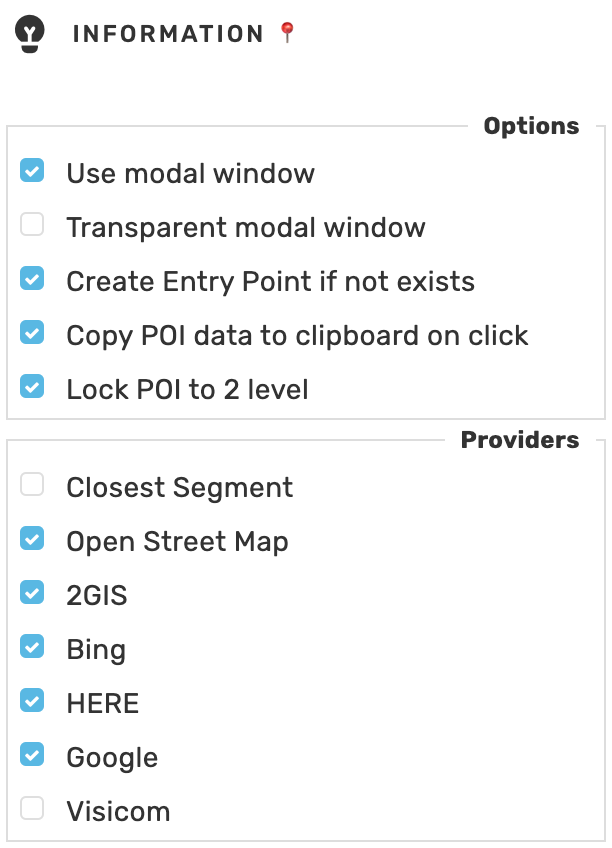
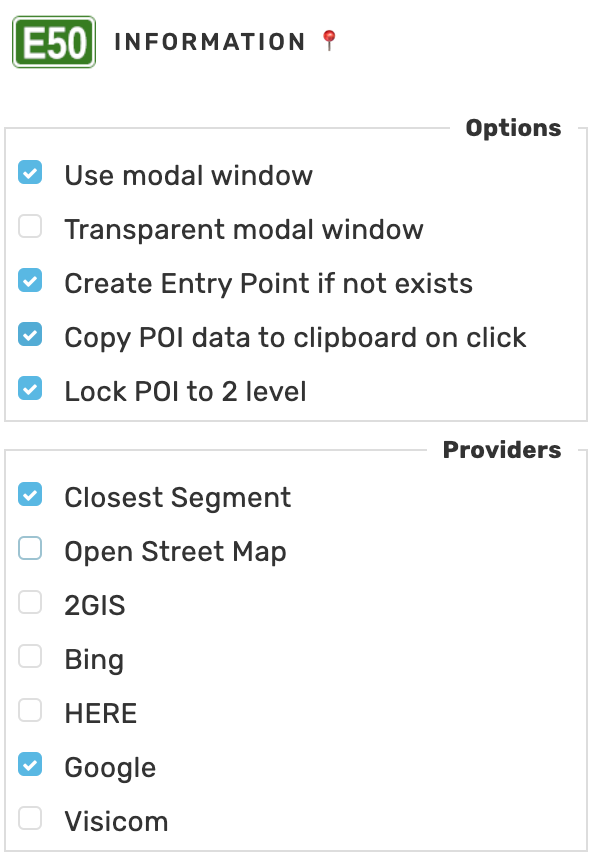
Updated WMEUI library

diff --git a/WME-E50.user.js b/WME-E50.user.js
@@ -9,7 +9,7 @@
 // @match        https://*.waze.com/editor*
 // @match        https://*.waze.com/*/editor*
 // @exclude      https://*.waze.com/user/editor*
[2 lines of base64/hex data omitted]
 // @connect      api.here.com
 // @connect      api.visicom.ua
 // @connect      nominatim.openstreetmap.org
@@ -21,8 +21,8 @@
 // @require      https://greasyfork.org/scripts/389765-common-utils/code/CommonUtils.js?version=1090053
 // @require      https://greasyfork.org/scripts/450160-wme-bootstrap/code/WME-Bootstrap.js?version=1135567
 // @require      https://greasyfork.org/scripts/452563-wme/code/WME.js?version=1101598
-// @require      https://greasyfork.org/scripts/450221-wme-base/code/WME-Base.js?version=1129908
-// @require      https://greasyfork.org/scripts/450320-wme-ui/code/WME-UI.js?version=1137009
+// @require      https://greasyfork.org/scripts/450221-wme-base/code/WME-Base.js?version=1137043
+// @require      https://greasyfork.org/scripts/450320-wme-ui/code/WME-UI.js?version=1137289
 // @require      https://greasyfork.org/scripts/38421-wme-utils-navigationpoint/code/WME%20Utils%20-%20NavigationPoint.js?version=251067
 // ==/UserScript==
 
@@ -236,7 +236,9 @@
 
       this.tab = this.helper.createTab(
         I18n.t(name).title,
-        { icon: 'suggestion-fill' }
+        {
+          image: GM_info.script.icon
+        }
       )
 
       // Setup options
@@ -296,7 +298,7 @@
      * @return {Null}
      */
     onNone (event) {
-      document.getElementById('panel-container').innerHTML = ''
+      document.getElementById('panel-container').innerText = ''
     }
 
     /**
@@ -334,22 +336,20 @@
 
       let providers = []
 
-      console.groupCollapsed(
-        '%c' + NAME + ': 📍 %c' + selected.x + ' ' + selected.y,
-        'color: #0DAD8D; font-weight: bold',
-        'color: dimgray; font-weight: normal'
-      )
-
       let country = W.model.getTopCountry().getID() // or 232 is Ukraine
 
       let settings = LOCALE[country]
+
+      this.group(
+        '📍' + selected.x + ' ' + selected.y
+      )
 
       if (this.settings.get('providers', 'magic')) {
         let Magic = new MagicProvider(container, settings)
         let providerPromise = Magic
           .search(selected.x, selected.y)
           .then(() => Magic.render())
-          .catch(() => console.log(':('))
+          .catch(() => this.log(':('))
         providers.push(providerPromise)
       }
 
@@ -358,7 +358,7 @@
         let providerPromise = Osm
           .search(selected.x, selected.y)
           .then(() => Osm.render())
-          .catch(() => console.log(':('))
+          .catch(() => this.log(':('))
         providers.push(providerPromise)
       }
 
@@ -367,7 +367,7 @@
         let providerPromise = Gis
           .search(selected.x, selected.y)
           .then(() => Gis.render())
-          .catch(() => console.log(':('))
+          .catch(() => this.log(':('))
         providers.push(providerPromise)
       }
 
@@ -376,7 +376,7 @@
         let providerPromise = Visicom
           .search(selected.x, selected.y)
           .then(() => Visicom.render())
-          .catch(() => console.log(':('))
+          .catch(() => this.log(':('))
         providers.push(providerPromise)
       }
 
@@ -385,7 +385,7 @@
         let providerPromise = Here
           .search(selected.x, selected.y)
           .then(() => Here.render())
-          .catch(() => console.log(':('))
+          .catch(() => this.log(':('))
         providers.push(providerPromise)
       }
 
@@ -394,7 +394,7 @@
         let providerPromise = Bing
           .search(selected.x, selected.y)
           .then(() => Bing.render())
-          .catch(() => console.log(':('))
+          .catch(() => this.log(':('))
         providers.push(providerPromise)
       }
 
@@ -403,17 +403,17 @@
         let providerPromise = Google
           .search(selected.x, selected.y)
           .then(() => Google.render())
-          .catch(() => console.log(':('))
+          .catch(() => this.log(':('))
         providers.push(providerPromise)
       }
 
-      Promise.all(providers).then(() => console.groupEnd())
+      Promise.all(providers).then(() => this.groupEnd())
 
       if (this.settings.get('options', 'modal')) {
         if (this.settings.get('options', 'transparent')) {
           parent.style.opacity = 0.6
-          parent.onmouseover = () => (parent.style.opacity = 1)
-          parent.onmouseout = () => (parent.style.opacity = 0.6)
+          parent.onmouseover = () => (parent.style.opacity = '1')
+          parent.onmouseout = () => (parent.style.opacity = '0.6')
         }
         this.modal.container().append(parent)
       } else {
@@ -586,7 +586,7 @@
       }
 
       let legend = document.createElement('legend')
-      legend.innerHTML = this.uid + ' [' + this.response.length + ']'
+      legend.innerText = this.uid + ' [' + this.response.length + ']'
       legend.onclick = function () {
         $(this).next().toggle()
         return false
@@ -610,7 +610,7 @@
       a.dataset.street = item.street
       a.dataset.number = item.number
       a.dataset.name = item.name
-      a.innerHTML = item.title
+      a.innerText = item.title
       a.title = item.raw
       a.className = NAME + '-link'
       if (!item.city || !item.street || !item.number) {
@@ -682,7 +682,7 @@
         key: this.key,
       }
 
-      let response = await this.makeRequest(url, data).catch(e => console.log(this.uid, 'return error', e))
+      let response = await this.makeRequest(url, data).catch(e => console.error(this.uid, 'return error', e))
 
       if (!response || !response.features || !response.features.length) {
         return []
@@ -731,7 +731,7 @@
         format: 'json',
       }
 
-      let response = await this.makeRequest(url, data).catch(e => console.log(this.uid, 'return error', e))
+      let response = await this.makeRequest(url, data).catch(e => console.error(this.uid, 'return error', e))
 
       if (!response || !response.address || !response.address.house_number) {
         return []
@@ -784,7 +784,7 @@
         key: this.key,
       }
 
-      let response = await this.makeRequest(url, data).catch(e => console.log(this.uid, 'return error', e))
+      let response = await this.makeRequest(url, data).catch(e => console.error(this.uid, 'return error', e))
 
       if (!response || !response.result || !response.result.items.length) {
         return []
@@ -850,7 +850,7 @@
         addressattributes: 'str,hnr'
       }
 
-      let response = await this.makeRequest(url, data).catch(e => console.log(this.uid, 'return error', e))
+      let response = await this.makeRequest(url, data).catch(e => console.error(this.uid, 'return error', e))
 
       if (!response
         || !response.Response
@@ -898,7 +898,7 @@
         key: this.key,
       }
 
-      let response = await this.makeRequest(url, data).catch(e => console.log(this.uid, 'return error', e))
+      let response = await this.makeRequest(url, data).catch(e => console.error(this.uid, 'return error', e))
 
       if (!response || !response.resourceSets || !response.resourceSets[0]) {
         return []
@@ -933,7 +933,7 @@
     }
 
     async request (lon, lat) {
-      let response = await this.makeAPIRequest(lat, lon).catch(e => console.log(this.uid, 'return error', e))
+      let response = await this.makeAPIRequest(lat, lon).catch(e => console.error(this.uid, 'return error', e))
 
       if (!response || !response.length) {
         return []
@@ -948,7 +948,7 @@
     async makeAPIRequest (lat, lon) {
       let center = new google.maps.LatLng(lat, lon)
 
-      let map = new google.maps.Map(document.createElement('div'), { center: center });
+      let map = new google.maps.Map(document.createElement('div'), { center: center })
 
       let request = {
         location: center,
@@ -957,9 +957,9 @@
         // doesn't work
         // fields: ['name', 'address_component', 'geometry'],
         // language: this.settings.country,
-      };
+      }
 
-      let service = new google.maps.places.PlacesService(map);
+      let service = new google.maps.places.PlacesService(map)
       return new Promise((resolve, reject) => {
         service.nearbySearch(request, (results, status) => {
           if (status === google.maps.places.PlacesServiceStatus.OK) {
@@ -967,7 +967,7 @@
           } else {
             reject(status)
           }
-        });
+        })
       })
     }
 
@@ -1224,6 +1224,9 @@
   }
 
   /**
+   * Normalize the string:
+   *  - remove the double quotes
+   *  - remove double space space
    * @param   {String} str
    * @returns {String}
    */
@@ -1239,6 +1242,9 @@
   }
 
   /**
+   * Normalize the name:
+   *  - remove № and #chars
+   *  - remove dotes
    * @param  {String} name
    * @return {String}
    */
@@ -1250,6 +1256,7 @@
   }
 
   /**
+   * Search the city name from available in editor area
    * @param  {String} city
    * @return {String}
    */
@@ -1269,11 +1276,12 @@
     if (best > -1) {
       city = cities[best]
     }
-    // console.log(arguments[0], city)
     return city
   }
 
   /**
+   * Search the street name from available in editor area
+   * Normalize the street name by UA rules
    * @param  {String} street
    * @return {String}
    */
@@ -1357,6 +1365,7 @@
   }
 
   /**
+   * Normalize the number by UA rules
    * @param  {String} number
    * @return {String}
    */
@@ -1399,6 +1408,10 @@
     return number
   }
 
+  /**
+   * Copy to clipboard
+   * @param text
+   */
   function toClipboard (text) {
     // normalize
     text = normalizeString(text)
@@ -1443,7 +1456,7 @@
   }
 
   /**
-   * Show vector from centr of the selected POI to point by lon and lat
+   * Show vector from center of the selected POI to point by lon and lat
    */
   function showVector () {
     let poi = getSelectedPOI()
